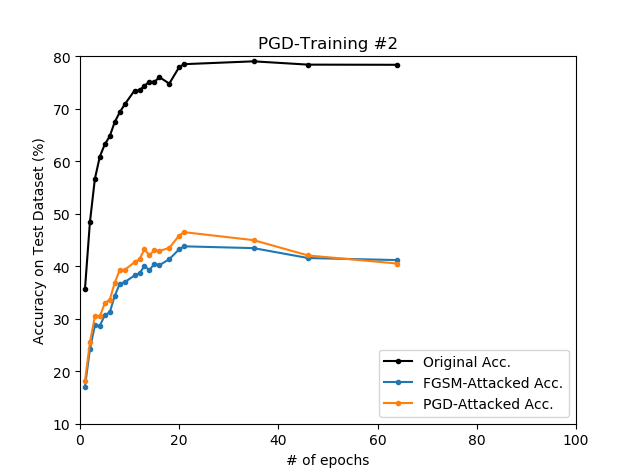
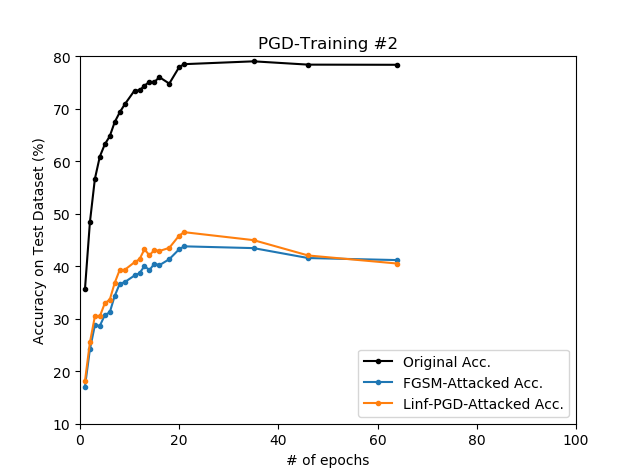
.

Changed region(s): [[0.5625, 0.7353, 0.875, 0.8824]]

diff --git a/README.md b/README.md
@@ -41,7 +41,7 @@ python eval.py --device cuda
 
 ```
 python train.py --device cuda
-                --epochs 300
+                --epochs 200
                 --batch_size 32
                 --lr 0.01
                 --lr_decay 20
@@ -50,10 +50,10 @@ python train.py --device cuda
 * data augmentation: RandomHorizontalFlip
 ```
 
-| epoch | Original Acc. | FGSM-Attacked Acc. | PGD-Attacked Acc. |
-| :-:   |  -:           |  -:                |  -:               |
-| e022  | 74.39 %       | 46.18 %            | 47.76 %           |
-| e040  | 77.62 %       | 43.55 %            | 43.91 %           |
+| epoch | Original Acc. | FGSM-Attacked Acc. | Linf-PGD-Attacked Acc. |
+| :-:   |  -:           |  -:                |  -:                    |
+| e022  | 74.39 %       | 46.18 %            | 47.76 %                |
+| e040  | 77.62 %       | 43.55 %            | 43.91 %                |
 
 #### PGD-Training #2 (L_inf, predicted label)
 
@@ -61,16 +61,20 @@ python train.py --device cuda
     <img width=50% src="./md/plot2.png">
 </p>
 
-| epoch | Original Acc. | FGSM-Attacked Acc. | PGD-Attacked Acc. |
-| :-:   |  -:           |  -:                |  -:               |
-| e021  | 78.49 %       | 43.77 %            | 46.47 %           |
-| e035  | 79.03 %       | 43.43 %            | 44.95 %           |
+| epoch | Original Acc. | FGSM-Attacked Acc. | Linf-PGD-Attacked Acc. |
+| :-:   |  -:           |  -:                |  -:                    |
+| e021  | 78.49 %       | 43.77 %            | 46.47 %                |
+| e035  | 79.03 %       | 43.43 %            | 44.95 %                |
 
 #### PGD-Training #3 (L_2, true label)
 
+<p align="center">
+    <img width=50% src="./md/plot3.png">
+</p>
+
 ```
 python train.py --device cuda
-                --epochs 300
+                --epochs 200
                 --batch_size 32
                 --lr 0.01
                 --lr_decay 20
@@ -79,7 +83,21 @@ python train.py --device cuda
 * data augmentation: RandomHorizontalFlip
 ```
 
-#### PGD-Training #3 (L_2, predicted label)
+| epoch | Original Acc. | FGSM-Attacked Acc. | Linf-PGD-Attacked Acc. |
+| :-:   |  -:           |  -:                |  -:                    |
+| e021  | 71.07 %       | 47.48 %            | 49.57 %                |
+| e040  | 75.42 %       | 45.66 %            | 45.86 %                |
+
+#### PGD-Training #4 (L_2, predicted label)
+
+<p align="center">
+    <img width=50% src="./md/plot4.png">
+</p>
+
+| epoch | Original Acc. | FGSM-Attacked Acc. | Linf-PGD-Attacked Acc. |
+| :-:   |  -:           |  -:                |  -:                    |
+| e021  | 71.19 %       | 47.20 %            | 48.84 %                |
+| e039  | 74.28 %       | 45.99 %            | 46.56 %                |
 
 ## Appendix
 
